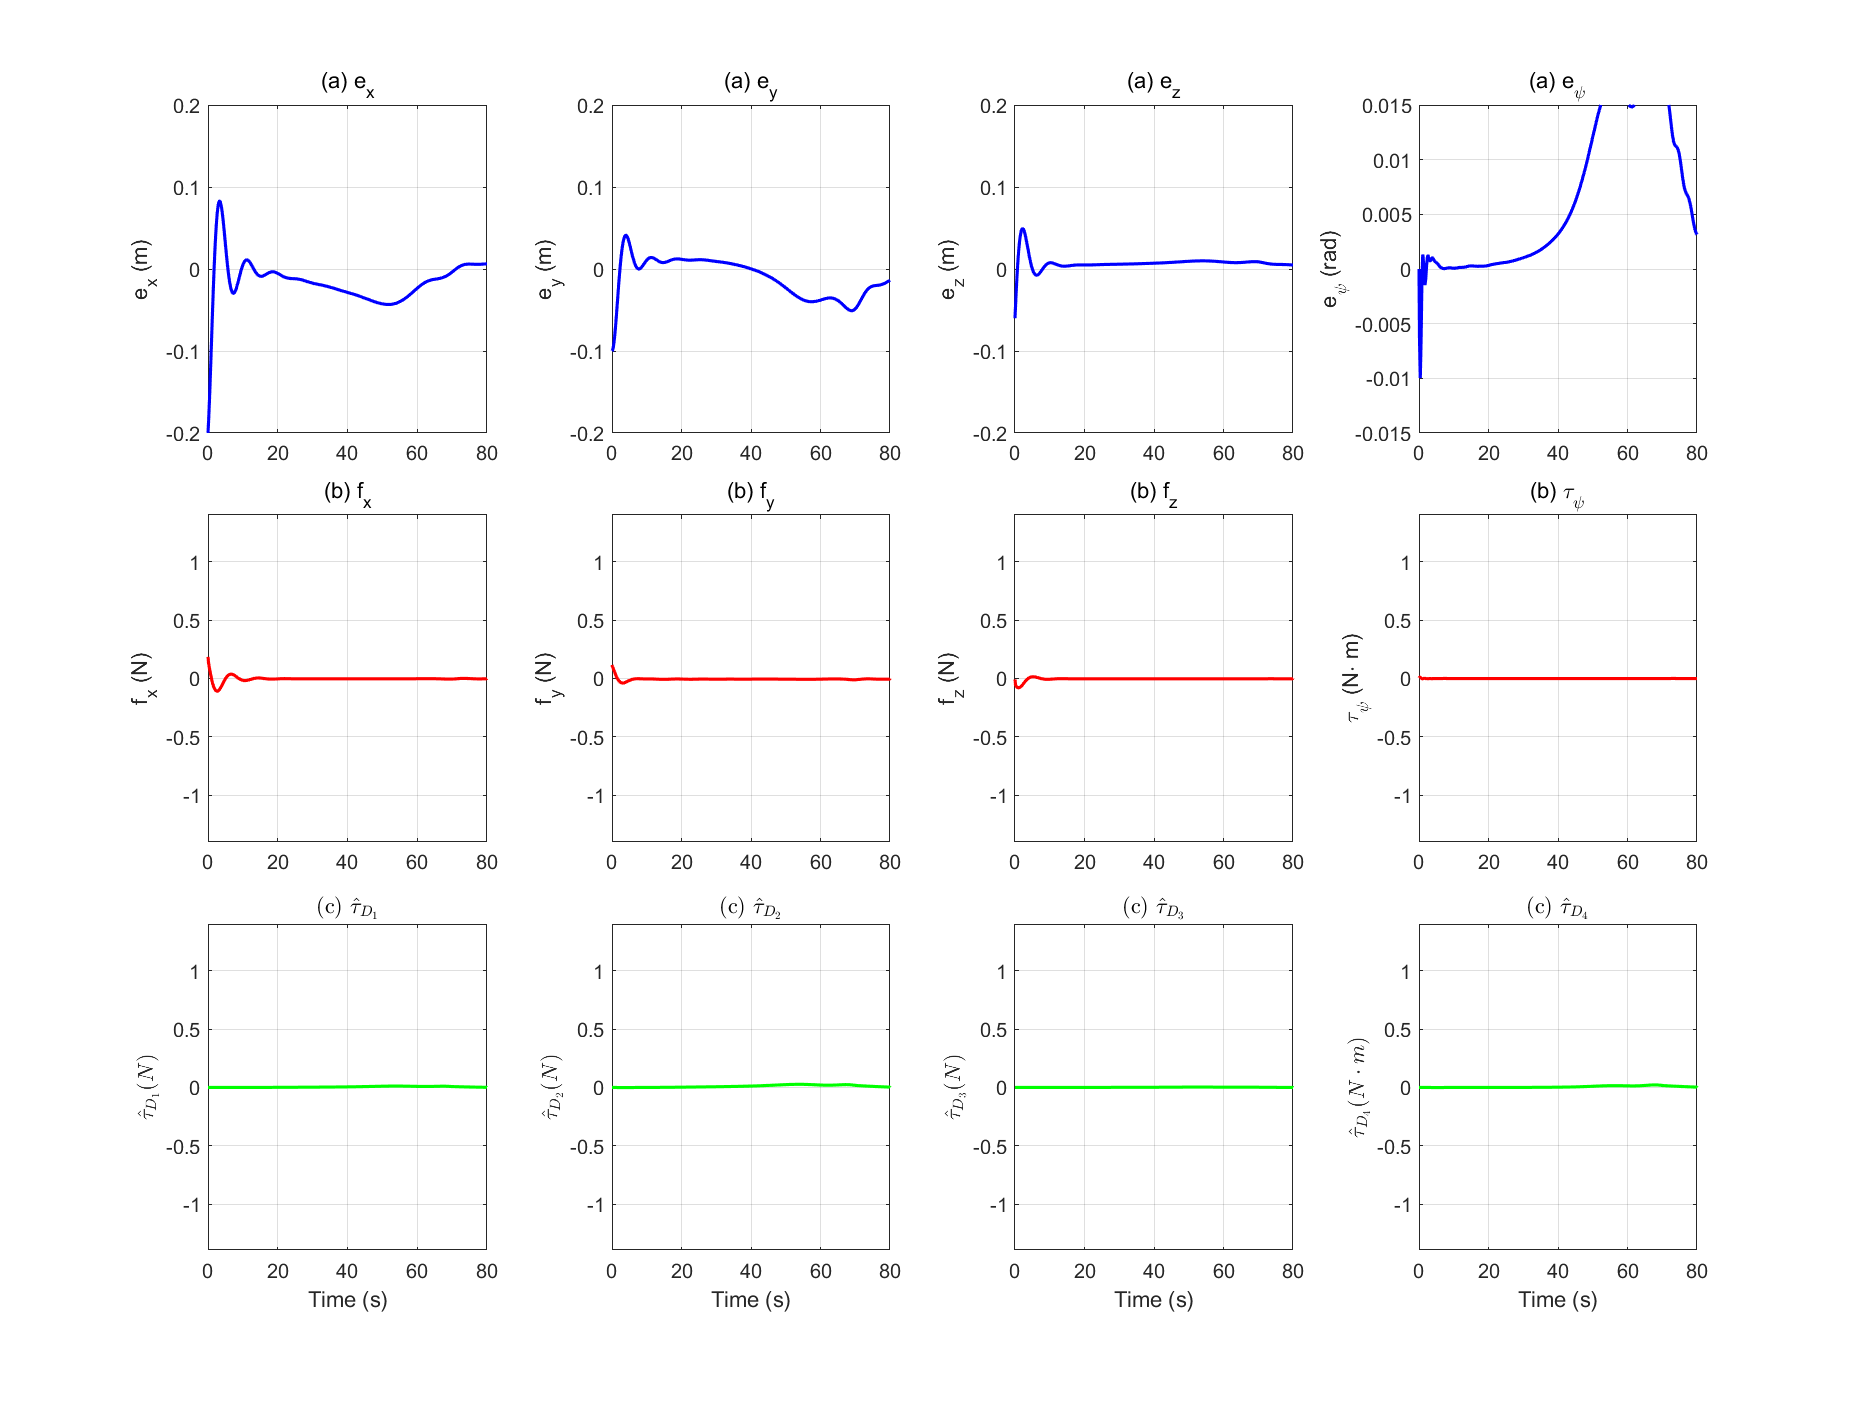
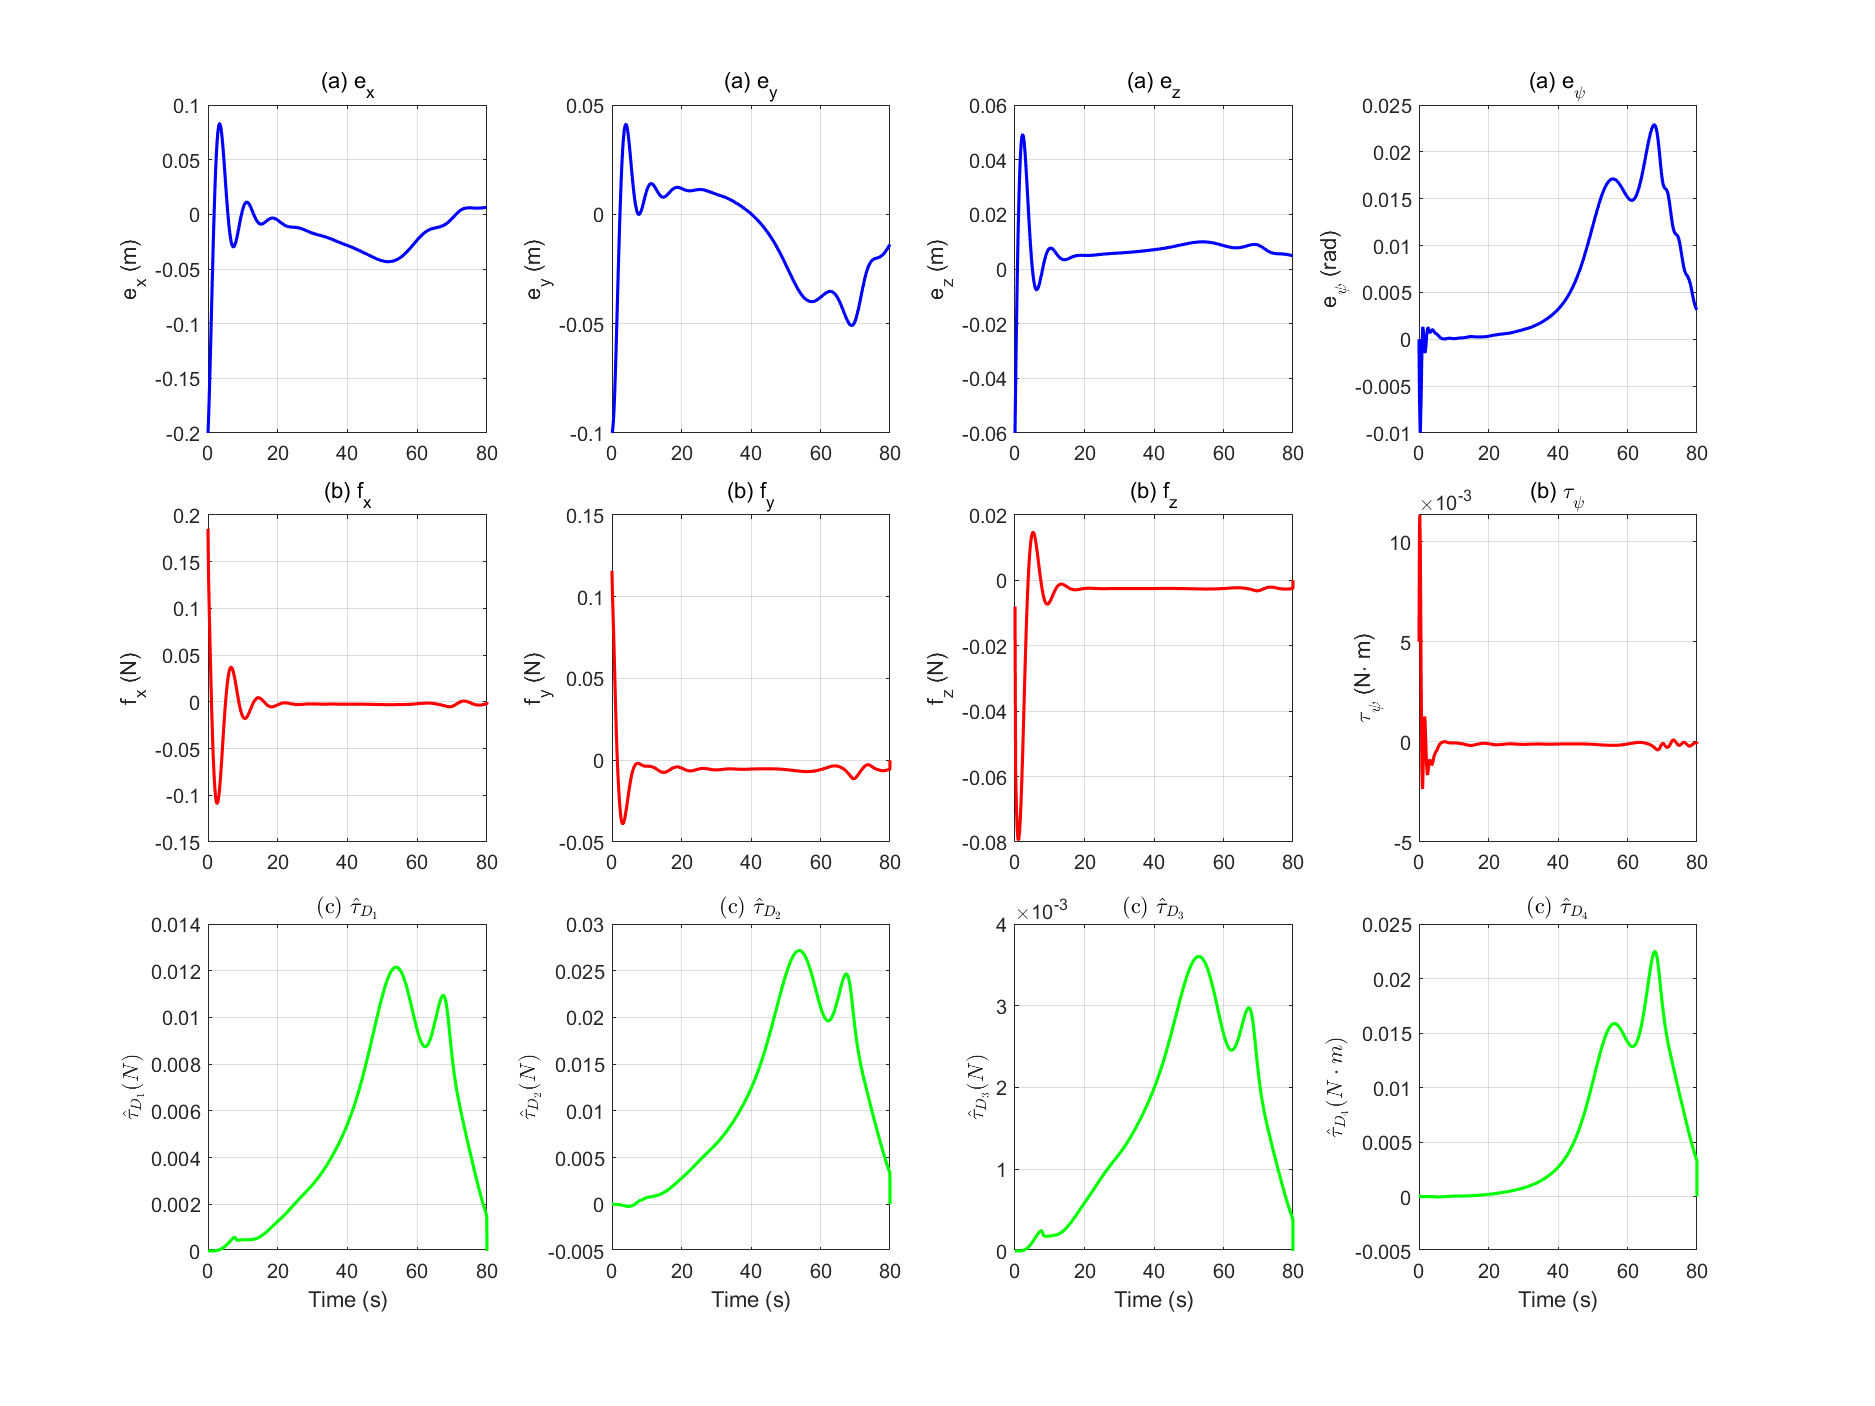
feat: 更新测试文件以自动调整y轴限制，提升图形可读性

diff --git a/tests/test_closed_loop_control.m b/tests/test_closed_loop_control.m
@@ -340,7 +340,7 @@ for i = 1:4
     nexttile;
     plot(t_span, vars_a{i}, 'b', 'LineWidth', 1.5);
     grid on;
-    ylim(y_limits_a{i});
+    ylim('auto');
     xlim([0, 80]);
     ylabel(ylabels_a{i});
     title(['(a) ', titles_a{i}]);
@@ -355,7 +355,7 @@ for i = 1:4
     nexttile;
     plot(t_span, vars_b{i}, 'r', 'LineWidth', 1.5);
     grid on;
-    ylim([-1.4, 1.4]);
+    ylim('auto');
     xlim([0, 80]);
     ylabel(ylabels_b{i});
     title(['(b) ', titles_b{i}]);
@@ -370,7 +370,7 @@ for i = 1:4
     nexttile;
     plot(t_span, vars_c{i}, 'g', 'LineWidth', 1.5);
     grid on;
-    ylim([-1.4, 1.4]);
+    ylim('auto');
     xlim([0, 80]);
     xlabel('Time (s)');
     ylabel(['$$', ylabels_c{i}, '$$'], 'Interpreter', 'latex');
